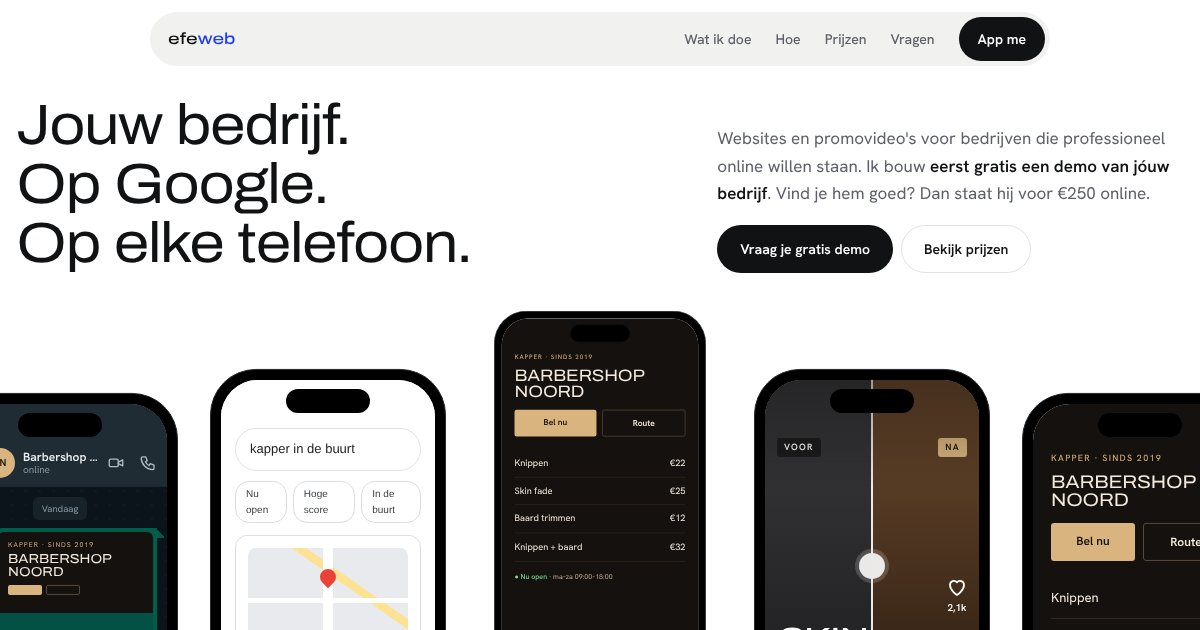
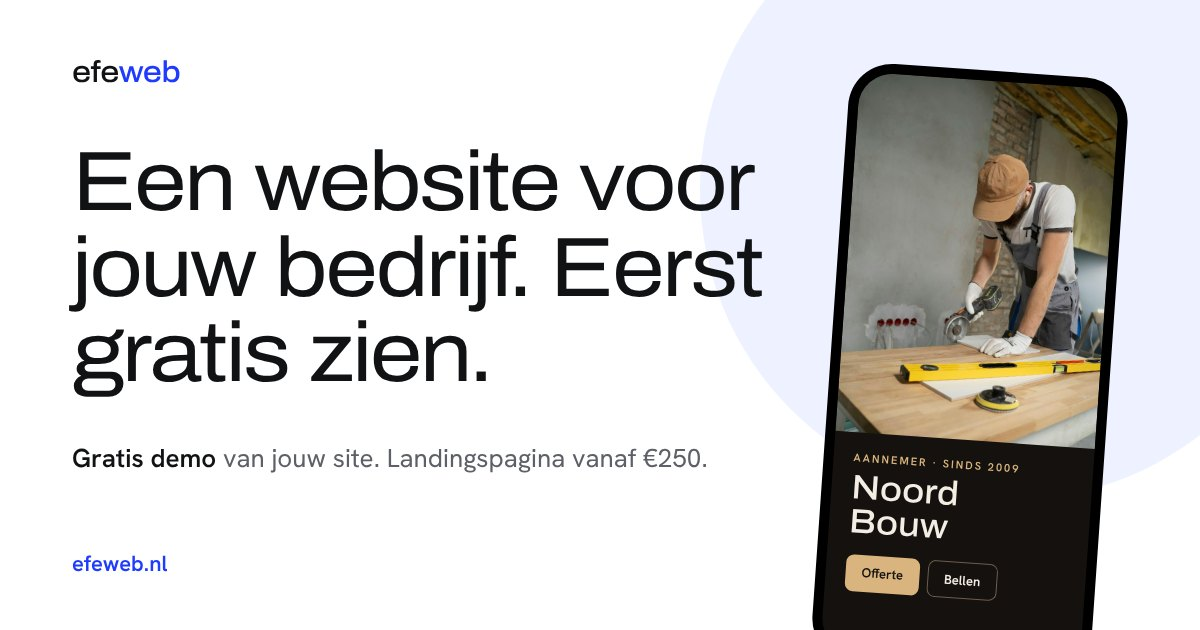
Nieuwe og-afbeelding (social/Google preview) passend bij huidige hero
Claude-Session: https://claude.ai/code/session_01795EKkjCV4L4uwsnEhETjT

diff --git a/efeweb-site/index.html b/efeweb-site/index.html
@@ -11,7 +11,10 @@
 <meta property="og:type" content="website">
 <meta property="og:locale" content="nl_NL">
 <meta property="og:url" content="https://efeweb.nl/">
-<meta property="og:image" content="https://efeweb.nl/og.jpg">
+<meta property="og:image" content="https://efeweb.nl/og.jpg?v=2">
+<meta property="og:image:width" content="1200">
+<meta property="og:image:height" content="630">
+<meta property="og:image:alt" content="Een website voor jouw bedrijf. Eerst gratis zien. efeweb.nl">
 <meta name="theme-color" content="#ffffff">
 <script src="/js/thema.js"></script>
 <link rel="icon" href="favicon.svg" type="image/svg+xml">
